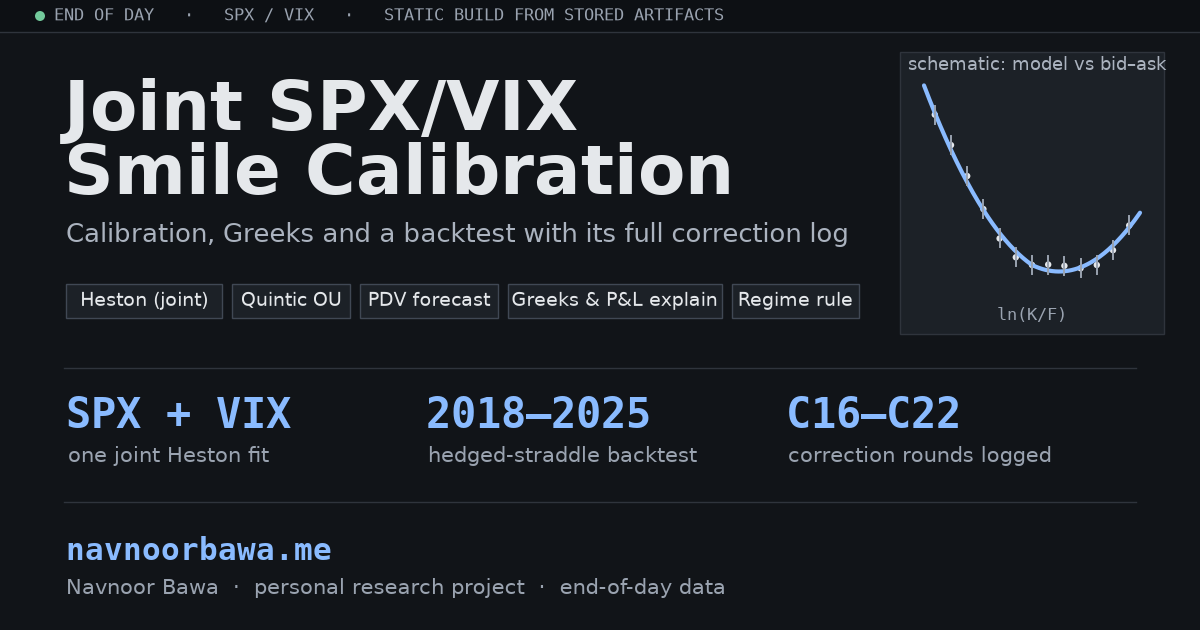
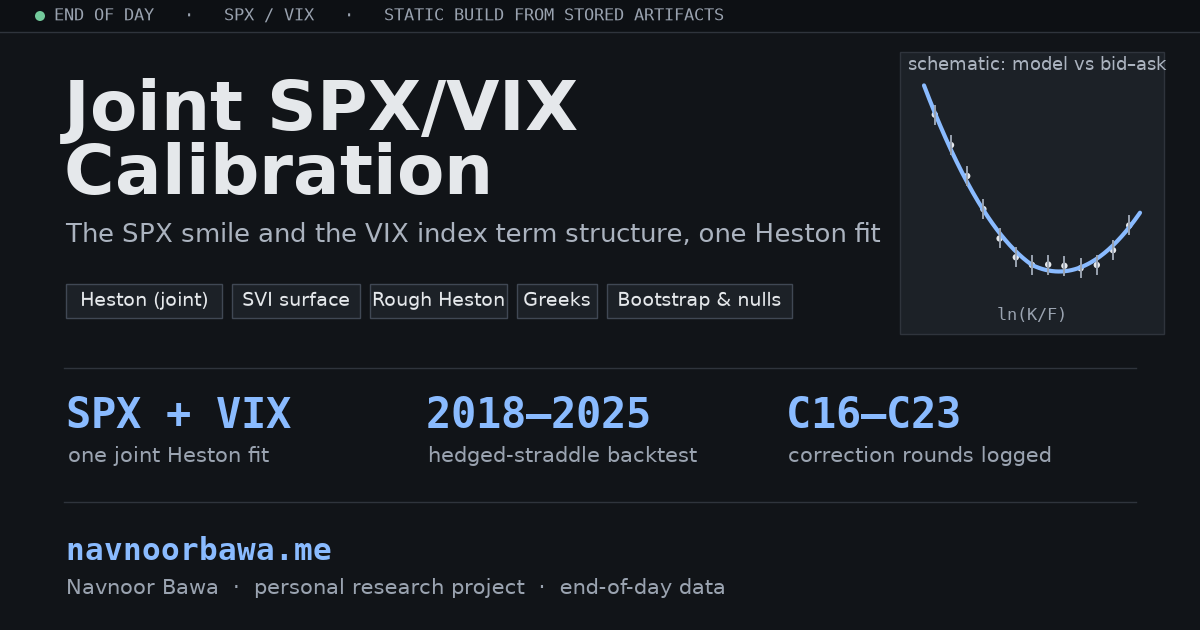
Title: Joint SPX/VIX Calibration System, not a VIX smile fit; version 0.23.0 cited as it is (CLM-05, CLM-12, ENG-12)
CLM-05. 'Joint SPX/VIX smile calibration' means fitting both option smiles
(Guyon 2020); every committed fit has the VIX-options leg off (w3 = 0) and
fits the four VIX indices. The README heading, CITATION.cff title, every
page's og:title and image alt, the Overview heading and sub-head, the social
card and the calibrator's docstrings now say 'Joint SPX/VIX calibration' and
name what is fitted: the SPX smile and the VIX index term structure, VIX
options a research leg. The card's correction range is read from the
registry (it said C16-C22) and its chips name the C23 models instead of the
unconverged Quintic.

CLM-12 / ENG-12. pyproject and CITATION.cff are 0.23.0, date-released
2026-10-21 (the last correction round's date); the message says no release
tag has been cut, so cite the commit. The abstract describes the system as
it is. Deleted the two helpers nothing calls (desk_charts.summary_table,
stats.nulls.iter_chunks).

Tests (fail before): test_titles_do_not_promise_a_vix_smile_fit,
test_citation_is_this_version.

Claude-Session: https://claude.ai/code/session_01KtGbaSszHTT6nRGRYkt347

diff --git a/dashboard/templates/index.html b/dashboard/templates/index.html
@@ -1,13 +1,13 @@
 {% extends "base.html" %}
 {% import "_macros.html" as m %}
-{% block og_title %}Overview — Joint SPX/VIX Smile Calibration{% endblock %}
+{% block og_title %}Overview — Joint SPX/VIX Calibration{% endblock %}
 {% block og_description %}End-of-day SPX/VIX volatility research system: an arbitrage-free surface and a joint SPX/VIX Heston fit scored against the bid–ask, rough Heston beside it, and a mark-to-model backtest with bootstrap intervals and timing nulls.{% endblock %}
 
 {% block content %}
 {% set f = d.fit or {} %}
 <div class="page-head">
-  <h1 class="page-title">Joint SPX/VIX smile calibration</h1>
-  <p class="page-sub" id="what-it-is">An end-of-day research system for SPX and VIX options. Its daily job is built to store each U.S. session's option books, fit an arbitrage-free market surface and a joint SPX/VIX stochastic-volatility model, and score both on quotes they were not fitted to, in units of the quoted half-spread; the pipeline panel lists what is stored so far. Greeks, scenarios and a mark-to-model backtest with its statistical inference are built from the same fits.</p>
+  <h1 class="page-title">Joint SPX/VIX calibration</h1>
+  <p class="page-sub" id="what-it-is">An end-of-day research system for SPX and VIX options. Its daily job is built to store each U.S. session's option books, fit an arbitrage-free market surface and one stochastic-volatility model jointly to the SPX smile and the VIX index term structure (VIX options are a research leg, not in the fit), and score both on quotes they were not fitted to, in units of the quoted half-spread; the pipeline panel lists what is stored so far. Greeks, scenarios and a mark-to-model backtest with its statistical inference are built from the same fits.</p>
   <div class="page-badge">
     <span class="nowrap">Last close {{ d.spx_date|fmt }}</span><span class="sep">·</span>
     <span class="nowrap">Rule label {{ d.regime_date|fmt }}</span><span class="sep">·</span>

diff --git a/dashboard/templates/base.html b/dashboard/templates/base.html
@@ -13,13 +13,13 @@
        count went stale in four places in C22; README/CI carry it). -->
   <meta property="og:type"         content="website">
   <meta property="og:url"          content="{{ canonical }}">
-  <meta property="og:title"        content="{% block og_title %}{{ page_title }} — Joint SPX/VIX Smile Calibration{% endblock %}">
-  <meta property="og:description"  content="{% block og_description %}Research system: joint SPX/VIX Heston calibration measured against bid–ask quotes, Greeks and P&amp;L explain, and a delta-hedged straddle backtest 2018–2025 with its full correction log. End-of-day.{% endblock %}">
+  <meta property="og:title"        content="{% block og_title %}{{ page_title }} — Joint SPX/VIX Calibration{% endblock %}">
+  <meta property="og:description"  content="{% block og_description %}Research system: one Heston fit to the SPX smile and the VIX index term structure, measured against bid–ask quotes, Greeks and P&amp;L explain, and a delta-hedged straddle backtest 2018–2025 with its full correction log. End-of-day.{% endblock %}">
   <meta property="og:image"        content="https://navnoorbawa.me/og-image.png">
   <meta property="og:image:width"  content="1200">
   <meta property="og:image:height" content="630">
-  <meta property="og:image:alt"    content="Joint SPX/VIX Smile Calibration System: research dashboard preview card.">
-  <meta name="twitter:image:alt"   content="Joint SPX/VIX Smile Calibration System dashboard preview card.">
+  <meta property="og:image:alt"    content="Joint SPX/VIX Calibration System: research dashboard preview card.">
+  <meta name="twitter:image:alt"   content="Joint SPX/VIX Calibration System dashboard preview card.">
   <meta name="author"              content="Navnoor Bawa">
   <link rel="canonical"            href="{{ canonical }}">
   <meta name="twitter:card"        content="summary_large_image">

diff --git a/dashboard/make_og_image.py b/dashboard/make_og_image.py
@@ -17,6 +17,7 @@ Usage:
     The default output is <repo>/dashboard/og-image.png. freeze_site.py copies
     it to the site root, so the absolute og:image URL resolves.
 """
+import json
 import os
 import sys
 
@@ -42,10 +43,22 @@ PALETTE = (BG, BG_DEEP, SURFACE, LINE, LINE2, TEXT, TEXT2, TEXT3, ACCENT, OK)
 ROOT = os.path.dirname(os.path.dirname(os.path.abspath(__file__)))
 DEFAULT_OUT = os.path.join(ROOT, "dashboard", "og-image.png")
 
+
+def _correction_rounds() -> str:
+    """'C16–C23': the first and last round of the corrections registry."""
+    with open(os.path.join(ROOT, "dashboard", "corrections.json"), encoding="utf-8") as fh:
+        rounds = json.load(fh)["rounds"]
+    return f"{rounds[0]['id']}–{rounds[-1]['id']}"
+
+
+# The project's title (README, CITATION.cff): joint SPX/VIX calibration, not a
+# joint SPX/VIX *smile* fit; the VIX-options leg is off (CLM-05).
+TITLE_LINES = ("Joint SPX/VIX", "Calibration")
+SUBTITLE = "The SPX smile and the VIX index term structure, one Heston fit"
 # (value, label) pairs of the stat band: stable facts only (no test count, no metric that moves daily)
 STATS = [("SPX + VIX", "one joint Heston fit"), ("2018–2025", "hedged-straddle backtest"),
-         ("C16–C22", "correction rounds logged")]
-CHIPS = ["Heston (joint)", "Quintic OU", "PDV forecast", "Greeks & P&L explain", "Regime rule"]
+         (_correction_rounds(), "correction rounds logged")]
+CHIPS = ["Heston (joint)", "SVI surface", "Rough Heston", "Greeks", "Bootstrap & nulls"]
 SANS, MONO = "DejaVu Sans", "DejaVu Sans Mono"
 
 
@@ -81,10 +94,9 @@ def build(out: str = DEFAULT_OUT) -> str:
     ax.text(x0 - 16, y0 + h + 40, "schematic: model vs bid–ask", color=TEXT2, fontsize=13, family=SANS)
 
     # title block
-    ax.text(64, 500, "Joint SPX/VIX", color=TEXT, fontsize=50, fontweight="bold", family=SANS)
-    ax.text(64, 436, "Smile Calibration", color=TEXT, fontsize=50, fontweight="bold", family=SANS)
-    ax.text(66, 388, "Calibration, Greeks and a backtest with its full correction log",
-            color=TEXT2, fontsize=19, family=SANS)
+    ax.text(64, 500, TITLE_LINES[0], color=TEXT, fontsize=50, fontweight="bold", family=SANS)
+    ax.text(64, 436, TITLE_LINES[1], color=TEXT, fontsize=50, fontweight="bold", family=SANS)
+    ax.text(66, 388, SUBTITLE, color=TEXT2, fontsize=19, family=SANS)
 
     # chips
     x = 66

diff --git a/joint_vol_calibration/tests/test_dashboard.py b/joint_vol_calibration/tests/test_dashboard.py
@@ -1205,6 +1205,30 @@ def test_social_meta_and_card_carry_no_test_count(pages):
     assert len(titles) == len(pages)                      # per-page, not one for all
 
 
+def test_titles_do_not_promise_a_vix_smile_fit(pages):
+    """CLM-05: 'Joint SPX/VIX smile calibration' means fitting both option
+    smiles (Guyon 2020); every committed fit has the VIX-options leg off
+    (w3 = 0) and fits the four VIX indices. One honest title everywhere: the
+    README, CITATION.cff, every page's og:title and the Overview heading, and
+    the social card; the card's correction range is the registry's."""
+    readme_h1 = (ROOT / "README.md").read_text().splitlines()[0]
+    cff_title = re.search(r'^title: "([^"]+)"', (ROOT / "CITATION.cff").read_text(), re.MULTILINE).group(1)
+    og = _load("og_card_title_under_test", "dashboard/make_og_image.py")
+    texts = {"README": readme_h1, "CITATION": cff_title, "card": " ".join(og.TITLE_LINES)}
+    for route, html in pages.items():
+        texts[route] = re.search(r'<meta property="og:title"\s+content="([^"]+)"', html).group(1)
+        texts[route + " alt"] = re.search(r'<meta property="og:image:alt"\s+content="([^"]+)"', html).group(1)
+    texts["overview h1"] = re.search(r'<h1 class="page-title">([^<]+)</h1>', pages["/"]).group(1)
+    for where, text in texts.items():
+        assert "smile calibration" not in text.lower(), (where, text)
+    assert readme_h1 == f"# {cff_title}"
+    assert cff_title == "Joint SPX/VIX Calibration System"
+    assert "VIX index term structure" in og.SUBTITLE
+    reg = json.loads((ROOT / "dashboard" / "corrections.json").read_text())
+    span = f"{reg['rounds'][0]['id']}–{reg['rounds'][-1]['id']}"
+    assert (span, "correction rounds logged") in og.STATS
+
+
 def test_regime_and_calibration_copy_state_the_actual_rules(pages):
     idx, cal, bt = pages["/"], pages["/calibration"], pages["/research"]
     assert "rolling 252-day 80th percentile" in idx

diff --git a/dashboard/desk_charts.py b/dashboard/desk_charts.py
@@ -25,7 +25,7 @@ from __future__ import annotations
 from collections.abc import Iterable, Sequence
 from typing import Any
 
-from desk_format import _fmt, round_sig
+from desk_format import round_sig
 
 CATEGORICAL = ("cat0", "cat1", "cat2", "cat3", "cat4", "cat5")
 
@@ -77,22 +77,6 @@ def table(caption: str, columns: Iterable, rows: Iterable[Iterable[Any]]) -> dic
         num = isinstance(c, str) and c.endswith("#")
         cols.append({"label": c[:-1] if num else c, "num": num})
     return {"caption": caption, "columns": cols, "rows": [[str(v) for v in r] for r in rows]}
-
-
-def summary_table(caption: str, series: list[dict], fmt: str = ".2f", unit: str = "",
-                  xs: Sequence | None = None) -> dict:
-    """First / last / lowest / highest of each aligned series (long series)."""
-    rows = []
-    for s in series:
-        if s.get("invisible"):
-            continue
-        ys = [v for v in s["data"] if v is not None]
-        if not ys:
-            continue
-        rows.append([s["name"], f"{_fmt(ys[0], fmt)}{unit}", f"{_fmt(ys[-1], fmt)}{unit}",
-                     f"{_fmt(min(ys), fmt)}{unit}", f"{_fmt(max(ys), fmt)}{unit}"])
-    head = (f"First ({xs[0]})#" if xs else "First#", f"Last ({xs[-1]})#" if xs else "Last#")
-    return table(caption, ["Series", head[0], head[1], "Lowest#", "Highest#"], rows)
 
 
 def color_cycle(i: int) -> str:

diff --git a/joint_vol_calibration/tests/test_readme.py b/joint_vol_calibration/tests/test_readme.py
@@ -286,3 +286,23 @@ def test_article_c23_note_carries_the_canonical_numbers(inference):
     for key in ("s1", "s1c", "s3"):
         k = f"{abs(m[key + '_total_pnl']) / 1000:,.0f}K"
         assert k in note, key
+
+
+def test_citation_is_this_version():
+    """CLM-12: CITATION.cff cited 0.22.0 'released' 2026-10-19 while its
+    abstract described C23 work committed after that date. The cited version is
+    the package's, released no earlier than the last correction round it
+    describes, and the title is the README's."""
+    cff = (ROOT / "CITATION.cff").read_text()
+    version = re.search(r"^version: (\S+)$", cff, re.MULTILINE).group(1)
+    released = re.search(r"^date-released: (\d{4}-\d{2}-\d{2})$", cff, re.MULTILINE).group(1)
+    toml = (ROOT / "pyproject.toml").read_text()
+    pyproject = re.search(r'^version = "([^"]+)"$', toml, re.MULTILINE).group(1)
+    assert version == pyproject
+    reg = json.loads((ROOT / "dashboard" / "corrections.json").read_text())
+    last = max(r.get("date_end") or r["date"] for r in reg["rounds"])
+    assert released >= last, (released, last)
+    title = re.search(r'^title: "([^"]+)"$', cff, re.MULTILINE).group(1)
+    assert README_RAW.splitlines()[0] == f"# {title}"
+    assert "no release tag" in " ".join(cff.split())       # nothing claims a tag or DOI that does not exist
+    assert "doi" not in cff.lower()

diff --git a/joint_vol_calibration/calibration/joint_calibrator.py b/joint_vol_calibration/calibration/joint_calibrator.py
@@ -1,5 +1,6 @@
 """
-joint_calibrator.py — Joint SPX/VIX Smile Calibration Engine (C4, revised C22).
+joint_calibrator.py — Joint SPX/VIX calibration engine: the SPX smile and the VIX
+index term structure (C4, revised C22).
 
 Minimises a single weighted loss over the market observables:
 
@@ -1036,7 +1037,8 @@ def previous_accepted_fit(spot_date: str, cal_dir=None) -> tuple:
 
 class JointCalibrator:
     """
-    Joint SPX/VIX smile calibration engine for the Heston model.
+    Joint SPX/VIX calibration engine for the Heston model: the SPX smile and
+    the VIX index term structure (the VIX-options leg is off by default, w3 = 0).
 
     Loads market data once at construction, then minimises the weighted loss
     as a least-squares problem: multi-start trust-region reflective

diff --git a/joint_vol_calibration/stats/nulls.py b/joint_vol_calibration/stats/nulls.py
@@ -43,7 +43,7 @@ with p = (1 + #{null ≥ real}) / (B + 1) for the timing alpha.
 
 from __future__ import annotations
 
-from collections.abc import Iterable, Iterator, Sequence
+from collections.abc import Iterable, Sequence
 from dataclasses import dataclass
 from typing import Any, cast
 
@@ -277,8 +277,3 @@ class PortfolioNull:
                              "sleeve": s, "total_pnl": st["total_pnl"], "sharpe": st["sharpe"],
                              "n_entries": ent})
         return pd.DataFrame(rows)
-
-
-def iter_chunks(seq: Sequence, size: int) -> Iterator[Sequence]:
-    for i in range(0, len(seq), size):
-        yield seq[i:i + size]

diff --git a/joint_vol_calibration/backtest/report_generator.py b/joint_vol_calibration/backtest/report_generator.py
@@ -309,7 +309,7 @@ class ReportGenerator:
 </div>
 
 <footer>
-  Joint SPX/VIX Smile Calibration System — C10 Backtest Report &nbsp;|&nbsp;
+  Joint SPX/VIX Calibration System — C10 Backtest Report &nbsp;|&nbsp;
   Signals use t−1 information; rules, thresholds, β and S1C's direction were
   chosen with knowledge of the whole sample &nbsp;|&nbsp; Fixed seed={self.engine.seed} &nbsp;|&nbsp;
   {datetime.now().strftime("%Y-%m-%d %H:%M UTC")}

diff --git a/README.md b/README.md
@@ -1,4 +1,4 @@
-# Joint SPX/VIX Smile Calibration System
+# Joint SPX/VIX Calibration System
 
 [![tests](https://github.com/navnoorthapar/vol-system-dashboard/actions/workflows/tests.yml/badge.svg?branch=main)](https://github.com/navnoorthapar/vol-system-dashboard/actions/workflows/tests.yml)
 [![daily refresh](https://github.com/navnoorthapar/vol-system-dashboard/actions/workflows/daily_refresh.yml/badge.svg?branch=main)](https://github.com/navnoorthapar/vol-system-dashboard/actions/workflows/daily_refresh.yml)
